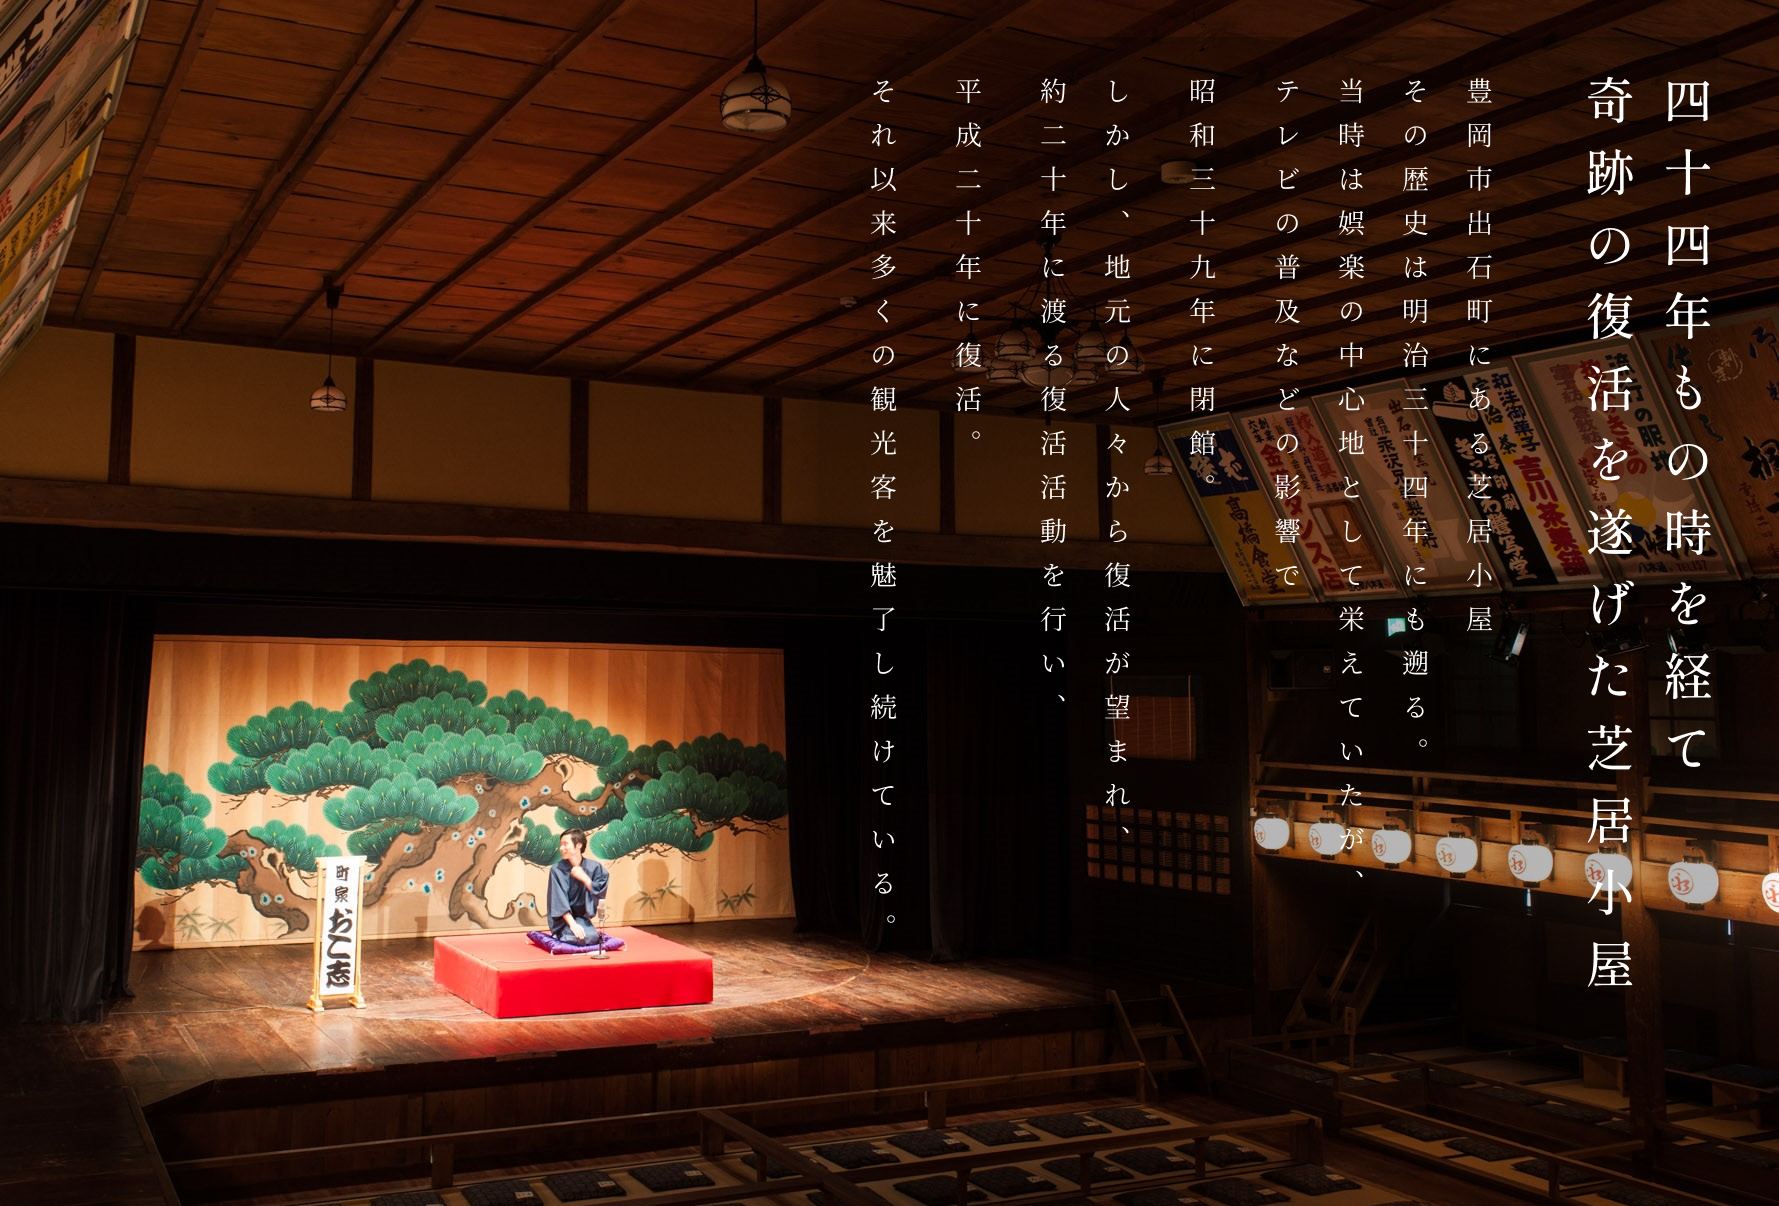
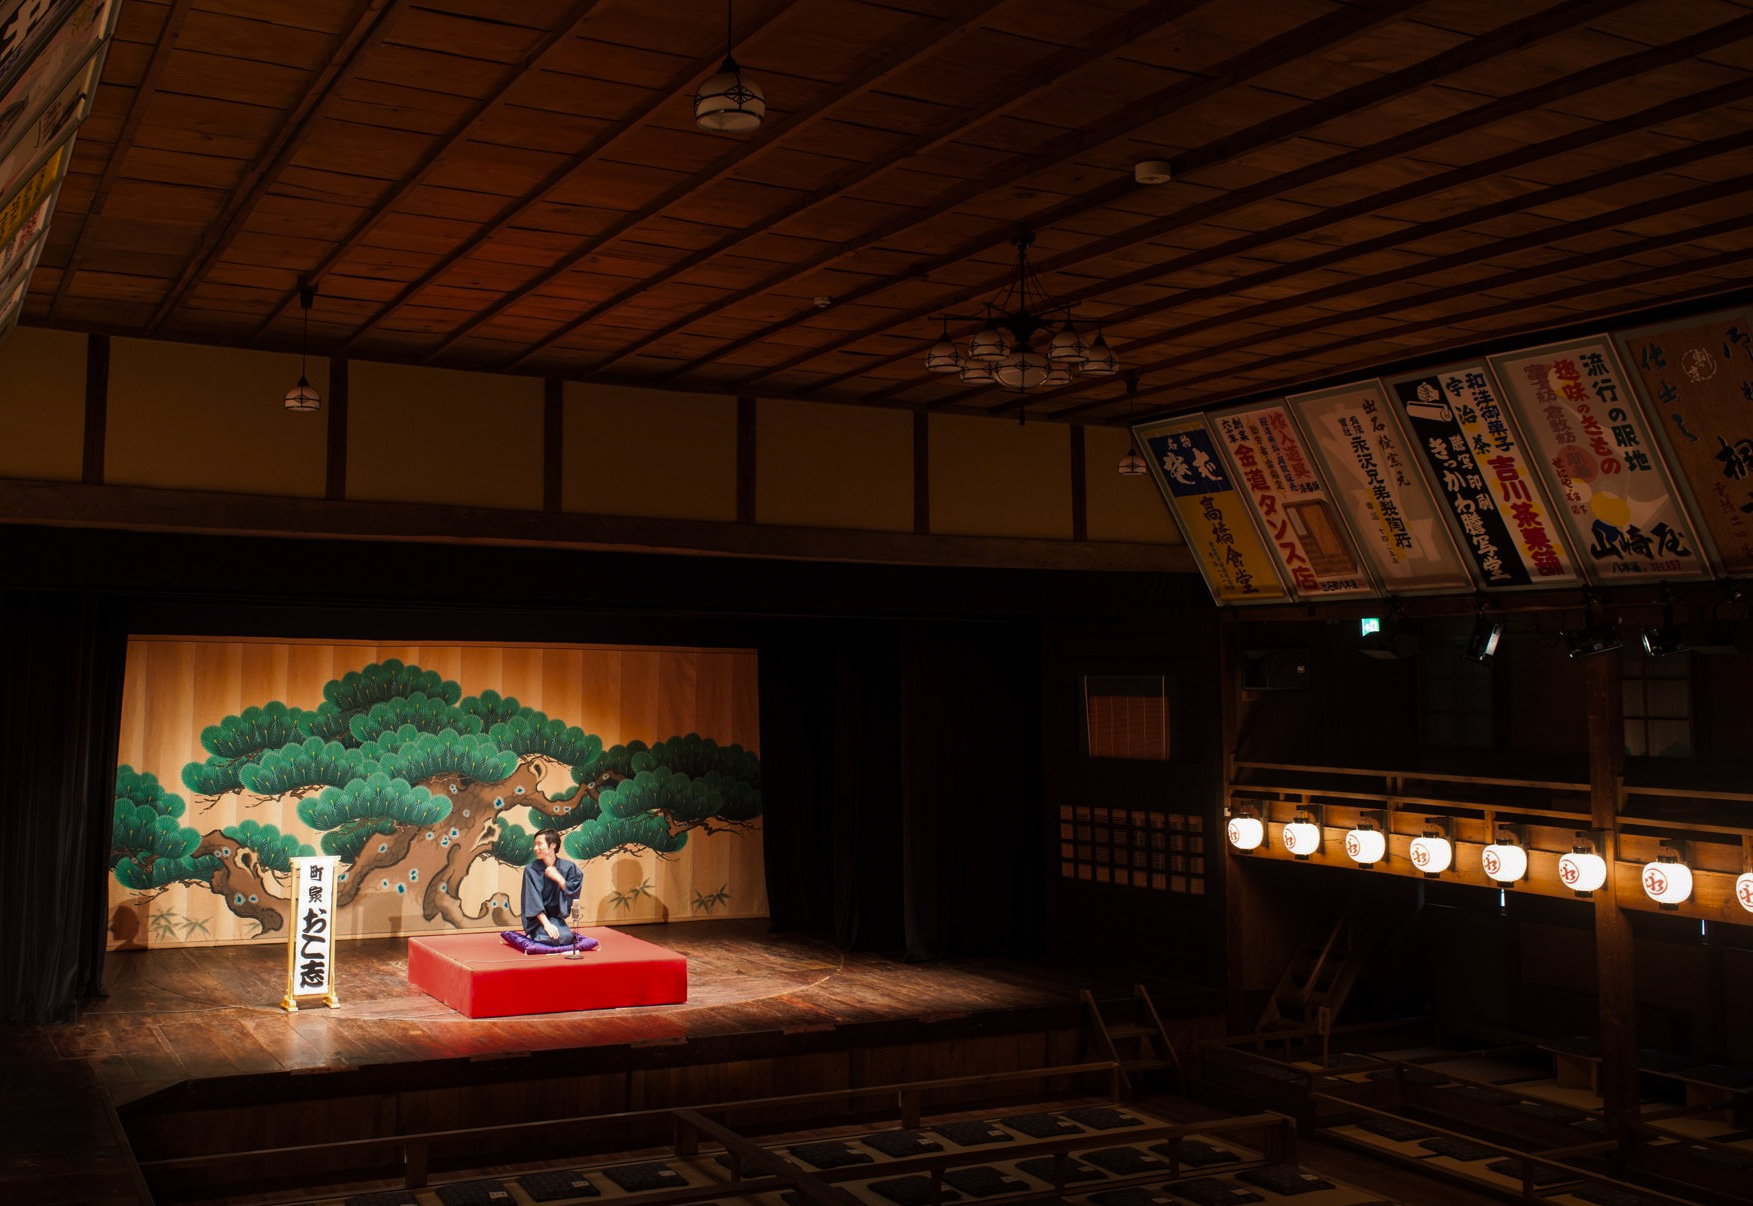
安国寺　永楽館　レスポンシブ化

diff --git a/toyooka-spots/eirakukan.html b/toyooka-spots/eirakukan.html
@@ -44,6 +44,24 @@
       height: 1px;
       margin: 0 0 25px 0;
     }
+    #responsive {
+      color: white;
+    }
+
+    @media screen and (min-width: 992px) {
+      #responsive {
+        writing-mode: vertical-rl;
+        position: absolute;
+        top: 6%;
+        right: 4%;
+      }
+    }
+
+    @media screen and (max-width: 991px) {
+      #responsive {
+        margin-bottom: 2.5rem;
+      }
+    }
   </style>
 </head>
 
@@ -126,8 +144,21 @@
           </div>
         </div>
         <div class="row pb-5">
-          <div class="col-12">
-            <img src="../img/spots/toyooka/eirakukan/story.png" alt="">
+          <div class="col-12 position-relative">
+            <img class="lg" src="../img/spots/toyooka/eirakukan/story.png" alt="">
+            <p class="formal-S" id="responsive" style="letter-spacing: 0.5em; line-height: 3; font-size: 1rem; font-weight: 100;">
+              <span style="font-size: 1.8em; line-height: 2;font-weight: 400; letter-spacing: 0.6em;">四十四年もの<span>時を経て</span><br>奇跡の復活を遂げた<span>芝居小屋</span></span><br>
+              <br>
+              豊岡市出石町にある芝居小屋。<br>
+              その歴史は明治三十四年にも遡る。<br>
+              当時は娯楽の中心地として栄えていたが、<br>
+              テレビの普及などの影響で<br>
+              昭和三十九年に閉館。<br>
+              しかし、地元の人々から復活が望まれ、<br>
+              約二十年に渡る復活活動を行い、<br>
+              平成二十年に復活。<br>
+              それ以来多くの観光客を魅了し続けている。
+            </p>
           </div>
         </div>
       </div>

diff --git a/toyooka-spots/ankokuji-temple.html b/toyooka-spots/ankokuji-temple.html
@@ -17,8 +17,11 @@
   <title>安国寺</title>
   <style>
     #responsive {
-      font-size: 0.8rem;
+      font-size: 1rem;
       color: white;
+      font-weight: 200;
+      letter-spacing: 0.6em;
+      line-height: 3;
     }
 
     @media screen and (min-width: 992px) {
@@ -117,15 +120,13 @@
         </div>
       </div>
       <div class="row mt-3">
-        <div class="col-12 pt-5 ps-5 pe-5" style="position: relative;">
+        <div class="col-12 pt-5 ps-5 pe-5 position-relative">
           <img class="lg" src="../img/spots/toyooka/ankokuji/intro.jpg" alt="">
           <p class="formal-S" id="responsive">
-            安国寺は、豊岡市但東町にある臨済宗大徳寺派の寺院。<br>
+            安国寺は、豊岡市但東町にある寺院。<br>
             その歴史は鎌倉時代の開山と云われています。<br>
-            南北朝時代に光厳上皇の院宣を受け、<br>
-            太田氏がその菩提寺にしたと伝わっています。<br>
-            また、南朝と北朝の二勢力が争っていた当時、<br>
-            北朝側だった足利尊氏が南朝の戦没者を供養するため、<br>
+            南朝と北朝の二勢力が争っていた当時、<br>
+            南朝の戦没者を供養するため、<br>
             「安国寺」に改称されました。
           </p>
         </div>
